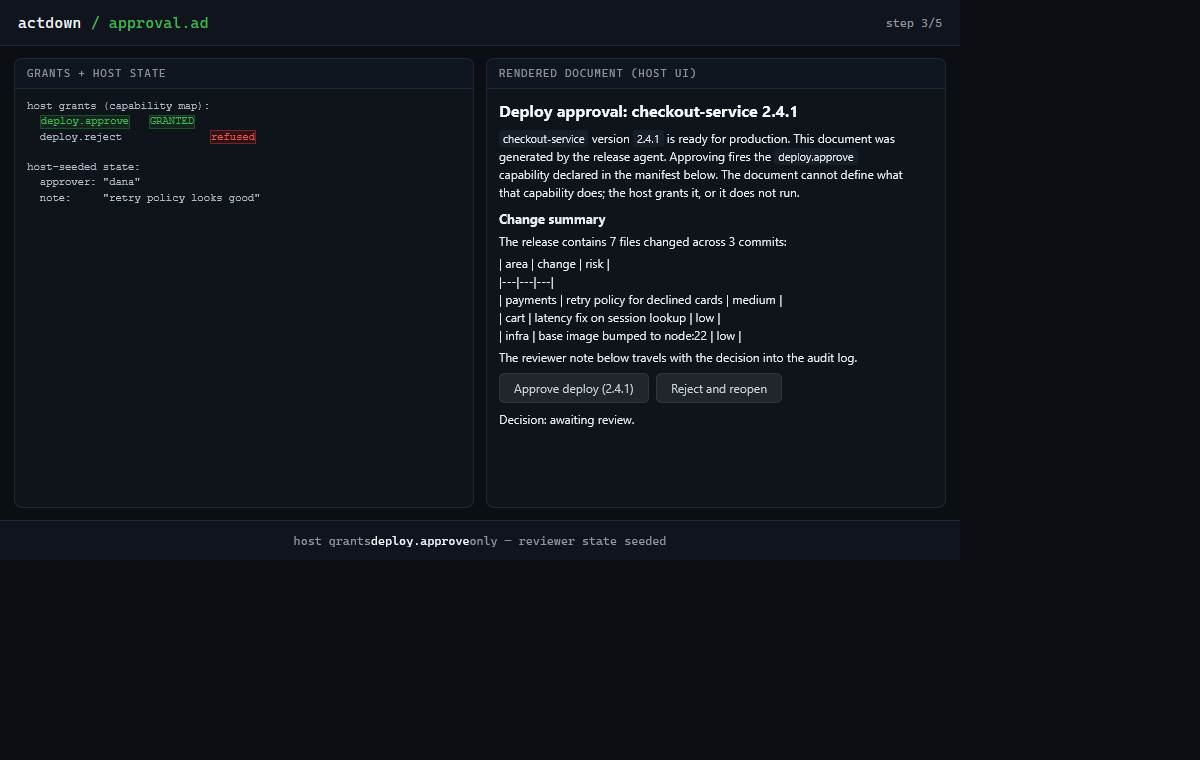
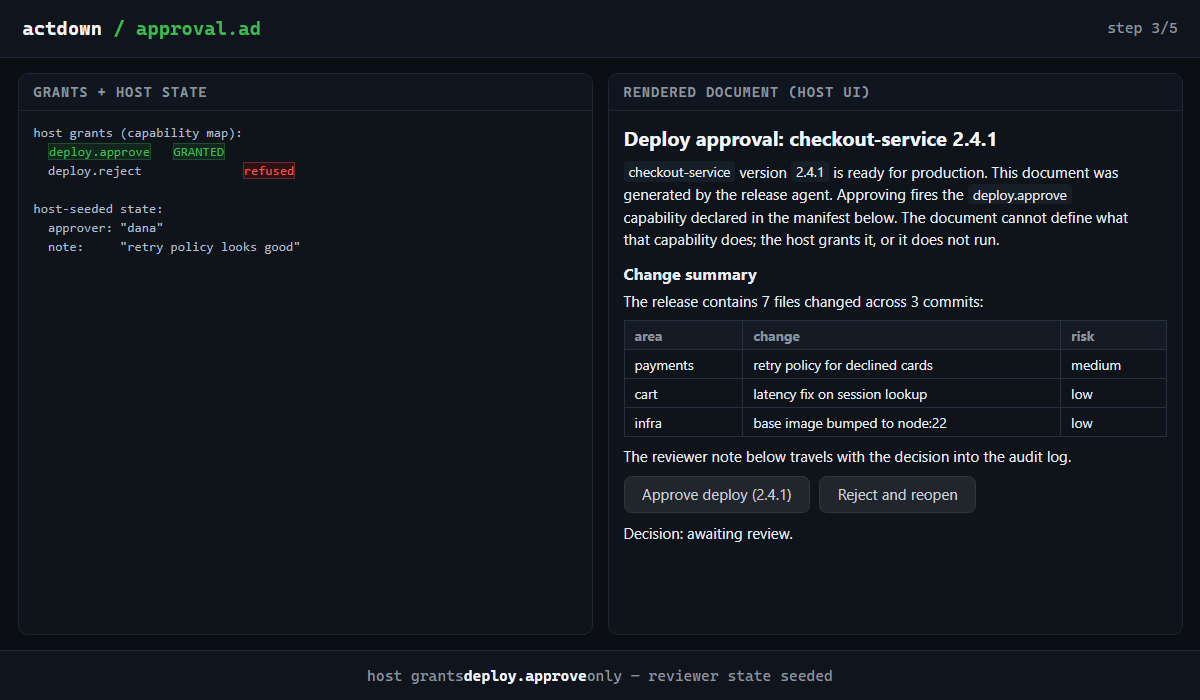
Render GFM pipe tables in prose (TS + Rust), add 0008-prose-table vector, regenerate demo frames and GIF

diff --git a/src/render.ts b/src/render.ts
@@ -91,9 +91,31 @@ function dataAttrs(b: BlockNode): string {
 
 // ---------------------------------------------------------------------------
 // Prose: a minimal CommonMark-subset renderer (headings, lists, fences,
-// blockquotes, paragraphs, inline emphasis/code/links). SPEC 11 allows the
-// implementation to plug any markdown renderer in via RenderOptions.
+// blockquotes, GFM pipe tables, paragraphs, inline emphasis/code/links). SPEC
+// 11 allows the implementation to plug any markdown renderer in via
+// RenderOptions.
 // ---------------------------------------------------------------------------
+
+/** One row of a GFM pipe table: strip the optional edge pipes, split, trim. */
+function splitRow(s: string): string[] {
+  const t = s.trim().replace(/^\|/, "").replace(/\|$/, "");
+  return t.split("|").map((c) => c.trim());
+}
+
+/** A delimiter row: `|---|:---:|` style; every cell is `:?-+:?`. */
+function isDelimRow(s: string): boolean {
+  if (!s.includes("|")) return false;
+  const cells = splitRow(s);
+  return cells.length > 0 && cells.every((c) => /^:?-+:?$/.test(c));
+}
+
+function proseTable(header: string[], rows: string[][], env?: Scope): string {
+  const ths = header.map((c) => `<th>${inline(c, env)}</th>`).join("");
+  const body = rows
+    .map((r) => `<tr>${r.map((c) => `<td>${inline(c, env)}</td>`).join("")}</tr>`)
+    .join("\n");
+  return `<table>\n<thead><tr>${ths}</tr></thead>\n<tbody>\n${body}\n</tbody>\n</table>`;
+}
 
 function inline(s: string, env?: Scope): string {
   let out = bind(s, env);
@@ -124,7 +146,8 @@ export function renderMarkdown(md: string, env?: Scope): string {
     list = null;
   };
 
-  for (const ln of lines) {
+  for (let i = 0; i < lines.length; i++) {
+    const ln = lines[i]!;
     const cf = /^(`{3,}|~{3,})[ \t]*(\S*)/.exec(ln);
     if (fence === null && cf) {
       flushPara();
@@ -142,6 +165,21 @@ export function renderMarkdown(md: string, env?: Scope): string {
       } else {
         fence.lines.push(ln);
       }
+      continue;
+    }
+    // GFM pipe table: a row followed by a delimiter row; body rows continue
+    // until a line without a pipe (blank or paragraph text ends the table).
+    if (ln.includes("|") && i + 1 < lines.length && isDelimRow(lines[i + 1]!)) {
+      flushPara();
+      flushList();
+      const rows: string[][] = [];
+      let j = i + 2;
+      while (j < lines.length && lines[j]!.trim() !== "" && lines[j]!.includes("|")) {
+        rows.push(splitRow(lines[j]!));
+        j++;
+      }
+      i = j - 1;
+      out.push(proseTable(splitRow(ln), rows, env));
       continue;
     }
     const h = /^(#{1,6})[ \t]+(.*)$/.exec(ln);

diff --git a/frames/frame-5.html b/frames/frame-5.html
@@ -79,11 +79,14 @@ that capability does; the host grants it, or it does not run.</p>
 <section data-ad-type="manifest" data-ad-id="he18f145e0e" data-ad-fields="{&quot;name&quot;:&quot;deploy.reject&quot;,&quot;min-version&quot;:&quot;1.0.0&quot;,&quot;scopes&quot;:[&quot;audit:write&quot;]}"></section>
 <h2>Change summary</h2>
 <p>The release contains 7 files changed across 3 commits:</p>
-<p>| area | change | risk |<br>
-|---|---|---|<br>
-| payments | retry policy for declined cards | medium |<br>
-| cart | latency fix on session lookup | low |<br>
-| infra | base image bumped to node:22 | low |</p>
+<table>
+<thead><tr><th>area</th><th>change</th><th>risk</th></tr></thead>
+<tbody>
+<tr><td>payments</td><td>retry policy for declined cards</td><td>medium</td></tr>
+<tr><td>cart</td><td>latency fix on session lookup</td><td>low</td></tr>
+<tr><td>infra</td><td>base image bumped to node:22</td><td>low</td></tr>
+</tbody>
+</table>
 <p>The reviewer note below travels with the decision into the audit log.</p>
 <section data-ad-type="region" data-ad-id="h7f84587e5c" data-ad-for="approve" data-ad-phase="pending" hidden data-ad-fields="{&quot;for&quot;:&quot;approve&quot;,&quot;phase&quot;:&quot;pending&quot;}">Deploy in progress. Do not close this panel.</section>
 <section data-ad-type="region" data-ad-id="hc420598539" data-ad-for="approve" data-ad-phase="success" data-ad-fields="{&quot;for&quot;:&quot;approve&quot;,&quot;phase&quot;:&quot;success&quot;}">Deployed. The decision is recorded in the audit log.</section>

diff --git a/frames/frame-2.html b/frames/frame-2.html
@@ -84,11 +84,14 @@ that capability does; the host grants it, or it does not run.</p>
 <section data-ad-type="manifest" data-ad-id="he18f145e0e" data-ad-fields="{&quot;name&quot;:&quot;deploy.reject&quot;,&quot;min-version&quot;:&quot;1.0.0&quot;,&quot;scopes&quot;:[&quot;audit:write&quot;]}"></section>
 <h2>Change summary</h2>
 <p>The release contains 7 files changed across 3 commits:</p>
-<p>| area | change | risk |<br>
-|---|---|---|<br>
-| payments | retry policy for declined cards | medium |<br>
-| cart | latency fix on session lookup | low |<br>
-| infra | base image bumped to node:22 | low |</p>
+<table>
+<thead><tr><th>area</th><th>change</th><th>risk</th></tr></thead>
+<tbody>
+<tr><td>payments</td><td>retry policy for declined cards</td><td>medium</td></tr>
+<tr><td>cart</td><td>latency fix on session lookup</td><td>low</td></tr>
+<tr><td>infra</td><td>base image bumped to node:22</td><td>low</td></tr>
+</tbody>
+</table>
 <p>The reviewer note below travels with the decision into the audit log.</p>
 <button data-ad-id="approve" role="primary" data-cap-missing disabled>Approve deploy (<span data-ad-bind="version">2.4.1</span>)</button>
 <button data-ad-id="reject" role="danger" data-cap-missing disabled>Reject and reopen</button>

diff --git a/frames/frame-3.html b/frames/frame-3.html
@@ -78,11 +78,14 @@ that capability does; the host grants it, or it does not run.</p>
 <section data-ad-type="manifest" data-ad-id="he18f145e0e" data-ad-fields="{&quot;name&quot;:&quot;deploy.reject&quot;,&quot;min-version&quot;:&quot;1.0.0&quot;,&quot;scopes&quot;:[&quot;audit:write&quot;]}"></section>
 <h2>Change summary</h2>
 <p>The release contains 7 files changed across 3 commits:</p>
-<p>| area | change | risk |<br>
-|---|---|---|<br>
-| payments | retry policy for declined cards | medium |<br>
-| cart | latency fix on session lookup | low |<br>
-| infra | base image bumped to node:22 | low |</p>
+<table>
+<thead><tr><th>area</th><th>change</th><th>risk</th></tr></thead>
+<tbody>
+<tr><td>payments</td><td>retry policy for declined cards</td><td>medium</td></tr>
+<tr><td>cart</td><td>latency fix on session lookup</td><td>low</td></tr>
+<tr><td>infra</td><td>base image bumped to node:22</td><td>low</td></tr>
+</tbody>
+</table>
 <p>The reviewer note below travels with the decision into the audit log.</p>
 <button data-ad-id="approve" role="primary">Approve deploy (<span data-ad-bind="version">2.4.1</span>)</button>
 <button data-ad-id="reject" role="danger">Reject and reopen</button>

diff --git a/frames/frame-4.html b/frames/frame-4.html
@@ -79,11 +79,14 @@ that capability does; the host grants it, or it does not run.</p>
 <section data-ad-type="manifest" data-ad-id="he18f145e0e" data-ad-fields="{&quot;name&quot;:&quot;deploy.reject&quot;,&quot;min-version&quot;:&quot;1.0.0&quot;,&quot;scopes&quot;:[&quot;audit:write&quot;]}"></section>
 <h2>Change summary</h2>
 <p>The release contains 7 files changed across 3 commits:</p>
-<p>| area | change | risk |<br>
-|---|---|---|<br>
-| payments | retry policy for declined cards | medium |<br>
-| cart | latency fix on session lookup | low |<br>
-| infra | base image bumped to node:22 | low |</p>
+<table>
+<thead><tr><th>area</th><th>change</th><th>risk</th></tr></thead>
+<tbody>
+<tr><td>payments</td><td>retry policy for declined cards</td><td>medium</td></tr>
+<tr><td>cart</td><td>latency fix on session lookup</td><td>low</td></tr>
+<tr><td>infra</td><td>base image bumped to node:22</td><td>low</td></tr>
+</tbody>
+</table>
 <p>The reviewer note below travels with the decision into the audit log.</p>
 <button data-ad-id="approve" role="primary">Approve deploy (<span data-ad-bind="version">2.4.1</span>)</button>
 <button data-ad-id="reject" role="danger">Reject and reopen</button>

diff --git a/vectors/0008-prose-table/html.html b/vectors/0008-prose-table/html.html
@@ -1,0 +1,16 @@
+<h1>Change summary</h1>
+<p>The release contains 7 files changed across 3 commits:</p>
+<table>
+<thead><tr><th>area</th><th>change</th><th>risk</th></tr></thead>
+<tbody>
+<tr><td>payments</td><td><strong>retry</strong> policy for declined cards</td><td>medium</td></tr>
+<tr><td>cart</td><td>latency fix on session lookup</td><td>low</td></tr>
+</tbody>
+</table>
+<table>
+<thead><tr><th>left</th><th>center</th><th>right</th></tr></thead>
+<tbody>
+<tr><td>a</td><td>b</td><td>c</td></tr>
+</tbody>
+</table>
+<p>After the table, prose continues.</p>

diff --git a/vectors/0008-prose-table/reactive.html b/vectors/0008-prose-table/reactive.html
@@ -1,0 +1,16 @@
+<h1>Change summary</h1>
+<p>The release contains 7 files changed across 3 commits:</p>
+<table>
+<thead><tr><th>area</th><th>change</th><th>risk</th></tr></thead>
+<tbody>
+<tr><td>payments</td><td><strong>retry</strong> policy for declined cards</td><td>medium</td></tr>
+<tr><td>cart</td><td>latency fix on session lookup</td><td>low</td></tr>
+</tbody>
+</table>
+<table>
+<thead><tr><th>left</th><th>center</th><th>right</th></tr></thead>
+<tbody>
+<tr><td>a</td><td>b</td><td>c</td></tr>
+</tbody>
+</table>
+<p>After the table, prose continues.</p>

diff --git a/actdown-rs/src/render.rs b/actdown-rs/src/render.rs
@@ -163,6 +163,51 @@ fn quote_re() -> &'static Regex {
     RE.get_or_init(|| Regex::new(r"^>[ \t]?(.*)$").unwrap())
 }
 
+/// One row of a GFM pipe table: strip the optional edge pipes, split, trim.
+fn split_row(s: &str) -> Vec<&str> {
+    let t = s.trim();
+    let t = t.strip_prefix('|').unwrap_or(t);
+    let t = t.strip_suffix('|').unwrap_or(t);
+    t.split('|').map(|c| c.trim()).collect()
+}
+
+/// A delimiter row: `|---|:---:|` style; every cell is `:?-+:?`.
+fn is_delim_row(s: &str) -> bool {
+    if !s.contains('|') {
+        return false;
+    }
+    let cells = split_row(s);
+    !cells.is_empty()
+        && cells.iter().all(|c| {
+            let b = c.as_bytes();
+            match b.len() {
+                0 => false,
+                1 => b[0] == b'-',
+                _ => {
+                    (b[0] == b':' || b[0] == b'-')
+                        && (b[b.len() - 1] == b':' || b[b.len() - 1] == b'-')
+                        && b[1..b.len() - 1].iter().all(|&ch| ch == b'-')
+                }
+            }
+        })
+}
+
+fn prose_table(header: Vec<&str>, rows: &[Vec<&str>], ctx: RenderCtx) -> String {
+    let ths: Vec<String> = header.iter().map(|c| format!("<th>{}</th>", inline(c, ctx))).collect();
+    let body: Vec<String> = rows
+        .iter()
+        .map(|r| {
+            let tds: Vec<String> = r.iter().map(|c| format!("<td>{}</td>", inline(c, ctx))).collect();
+            format!("<tr>{}</tr>", tds.join(""))
+        })
+        .collect();
+    format!(
+        "<table>\n<thead><tr>{}</tr></thead>\n<tbody>\n{}\n</tbody>\n</table>",
+        ths.join(""),
+        body.join("\n")
+    )
+}
+
 pub fn render_markdown(md: &str, ctx: RenderCtx) -> String {
     let lines: Vec<&str> = md.split('\n').collect();
     let mut out: Vec<String> = Vec::new();
@@ -186,7 +231,15 @@ pub fn render_markdown(md: &str, ctx: RenderCtx) -> String {
         }
     }
 
-    for ln in &lines {
+    // Rows below this index were already consumed by a prose table; the
+    // guard at the top of the loop skips them (the TS port advances its
+    // index instead).
+    let mut consumed_until = 0usize;
+    for (i, ln_ref) in lines.iter().enumerate() {
+        let ln: &str = ln_ref;
+        if i < consumed_until {
+            continue;
+        }
         let cf = fence_open_re.captures(ln);
         if fence.is_none() {
             if let Some(c) = cf {
@@ -213,6 +266,22 @@ pub fn render_markdown(md: &str, ctx: RenderCtx) -> String {
             } else {
                 fence.as_mut().unwrap().1.push(ln);
             }
+            continue;
+        }
+        // GFM pipe table: a row followed by a delimiter row; body rows
+        // continue until a line without a pipe (blank or paragraph text ends
+        // the table).
+        if ln.contains('|') && i + 1 < lines.len() && is_delim_row(lines[i + 1]) {
+            flush_para(&mut out, &mut para, ctx);
+            flush_list(&mut out, &mut list, ctx);
+            let mut rows: Vec<Vec<&str>> = Vec::new();
+            let mut j = i + 2;
+            while j < lines.len() && !lines[j].trim().is_empty() && lines[j].contains('|') {
+                rows.push(split_row(lines[j]));
+                j += 1;
+            }
+            consumed_until = j;
+            out.push(prose_table(split_row(ln), &rows, ctx));
             continue;
         }
         if let Some(h) = heading_re().captures(ln) {

diff --git a/CHANGELOG.md b/CHANGELOG.md
@@ -37,4 +37,10 @@ First development preview. Spec draft 0.1 (see `SPEC.md`, normative).
   exposure.
 - `ad-include` and some form-control rendering are still open.
 
+### Fixed
+
+- GFM pipe tables inside prose now render as `<table>` in both
+  implementations; previously they fell through to paragraph text and the
+  `|---|` delimiter row printed literally.
+
 [0.1.0]: https://github.com/Omodaka9375/actdown/releases/tag/v0.1.0
